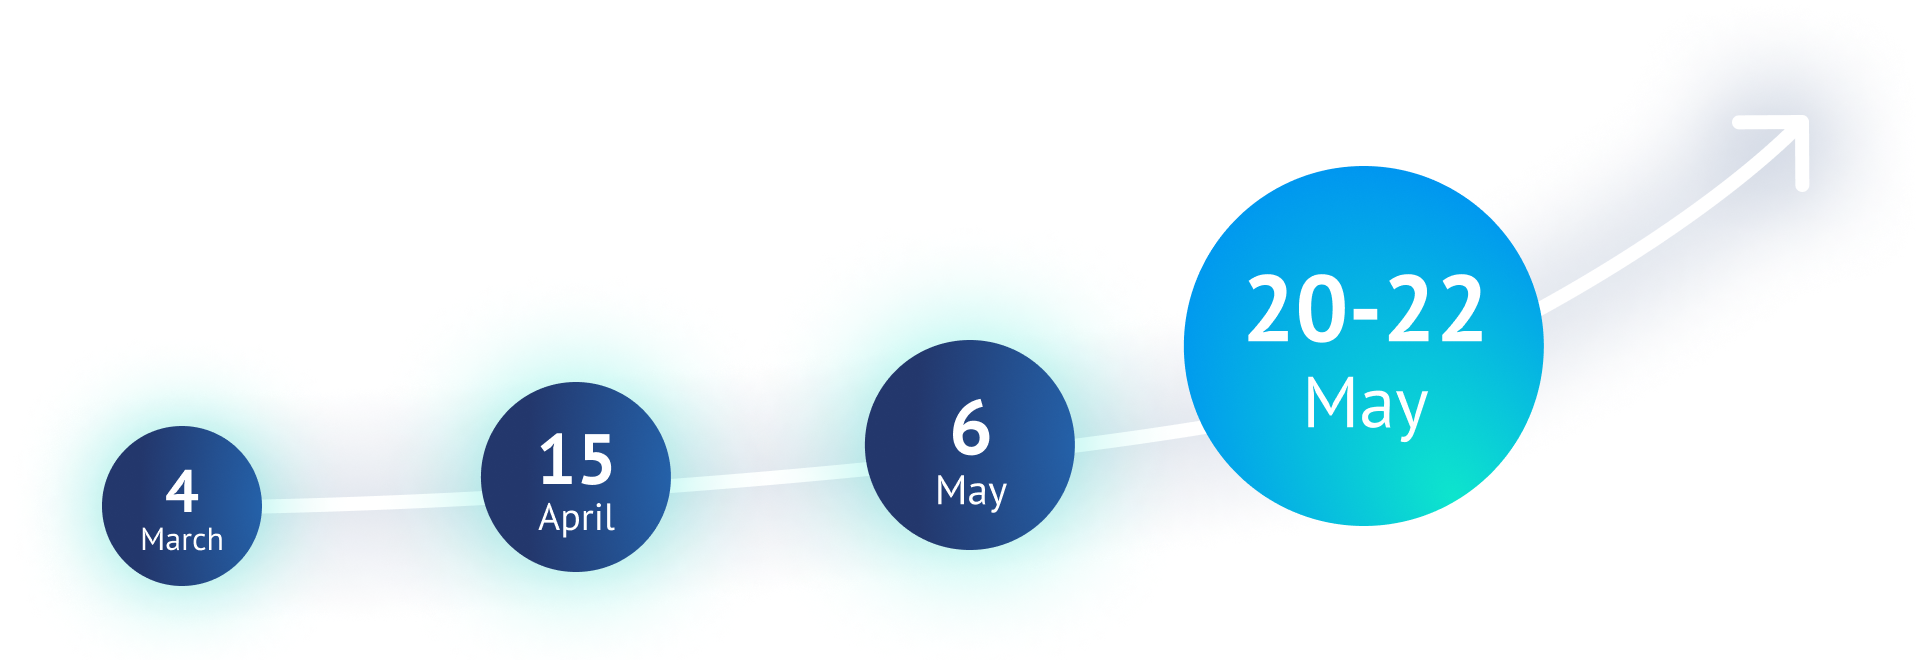
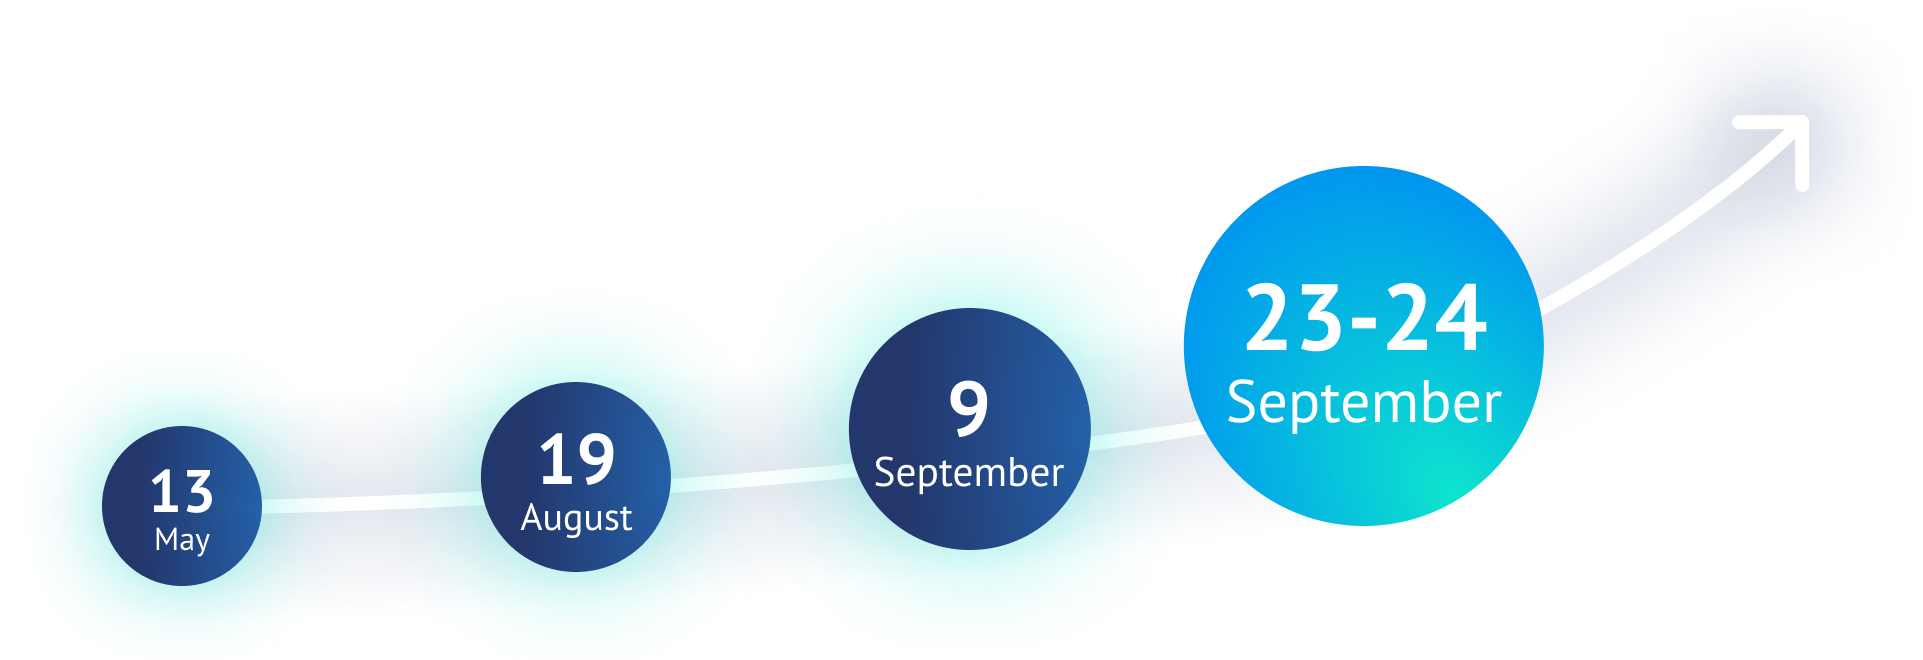
change deadline for accepting abstracts

diff --git a/index.html b/index.html
@@ -77,13 +77,13 @@
         <div id="group-time-left" class="parallax__group-time-left">
             <div class="title f-1" id="time-left-title"></div>
             <div class="time-left" id="timebar-big">
-                <script src="//megatimer.ru/get/94e5e71e9523089f00db837c98916c02.js"></script>
+                <script src="//megatimer.ru/get/582bbe233f8879979fc873504078c9a0.js"></script>
             </div>
             <div class="time-left" id="timebar-medium">
-                <script src="//megatimer.ru/get/575def82400b7d6f5653dfdc9b0927c9.js"></script>
+                <script src="//megatimer.ru/get/002201713077d33ca13e6b11140c366b.js"></script>
             </div>
             <div class="time-left" id="timebar-small">
-                <script src="//megatimer.ru/get/aa2b1b5572338a5f11f9ba0e93c3768e.js"></script>
+                <script src="//megatimer.ru/get/95d52dfba8cca63ce42a81ecd162fc06.js"></script>
             </div>
         </div>
         <div class="div-button-tez">
